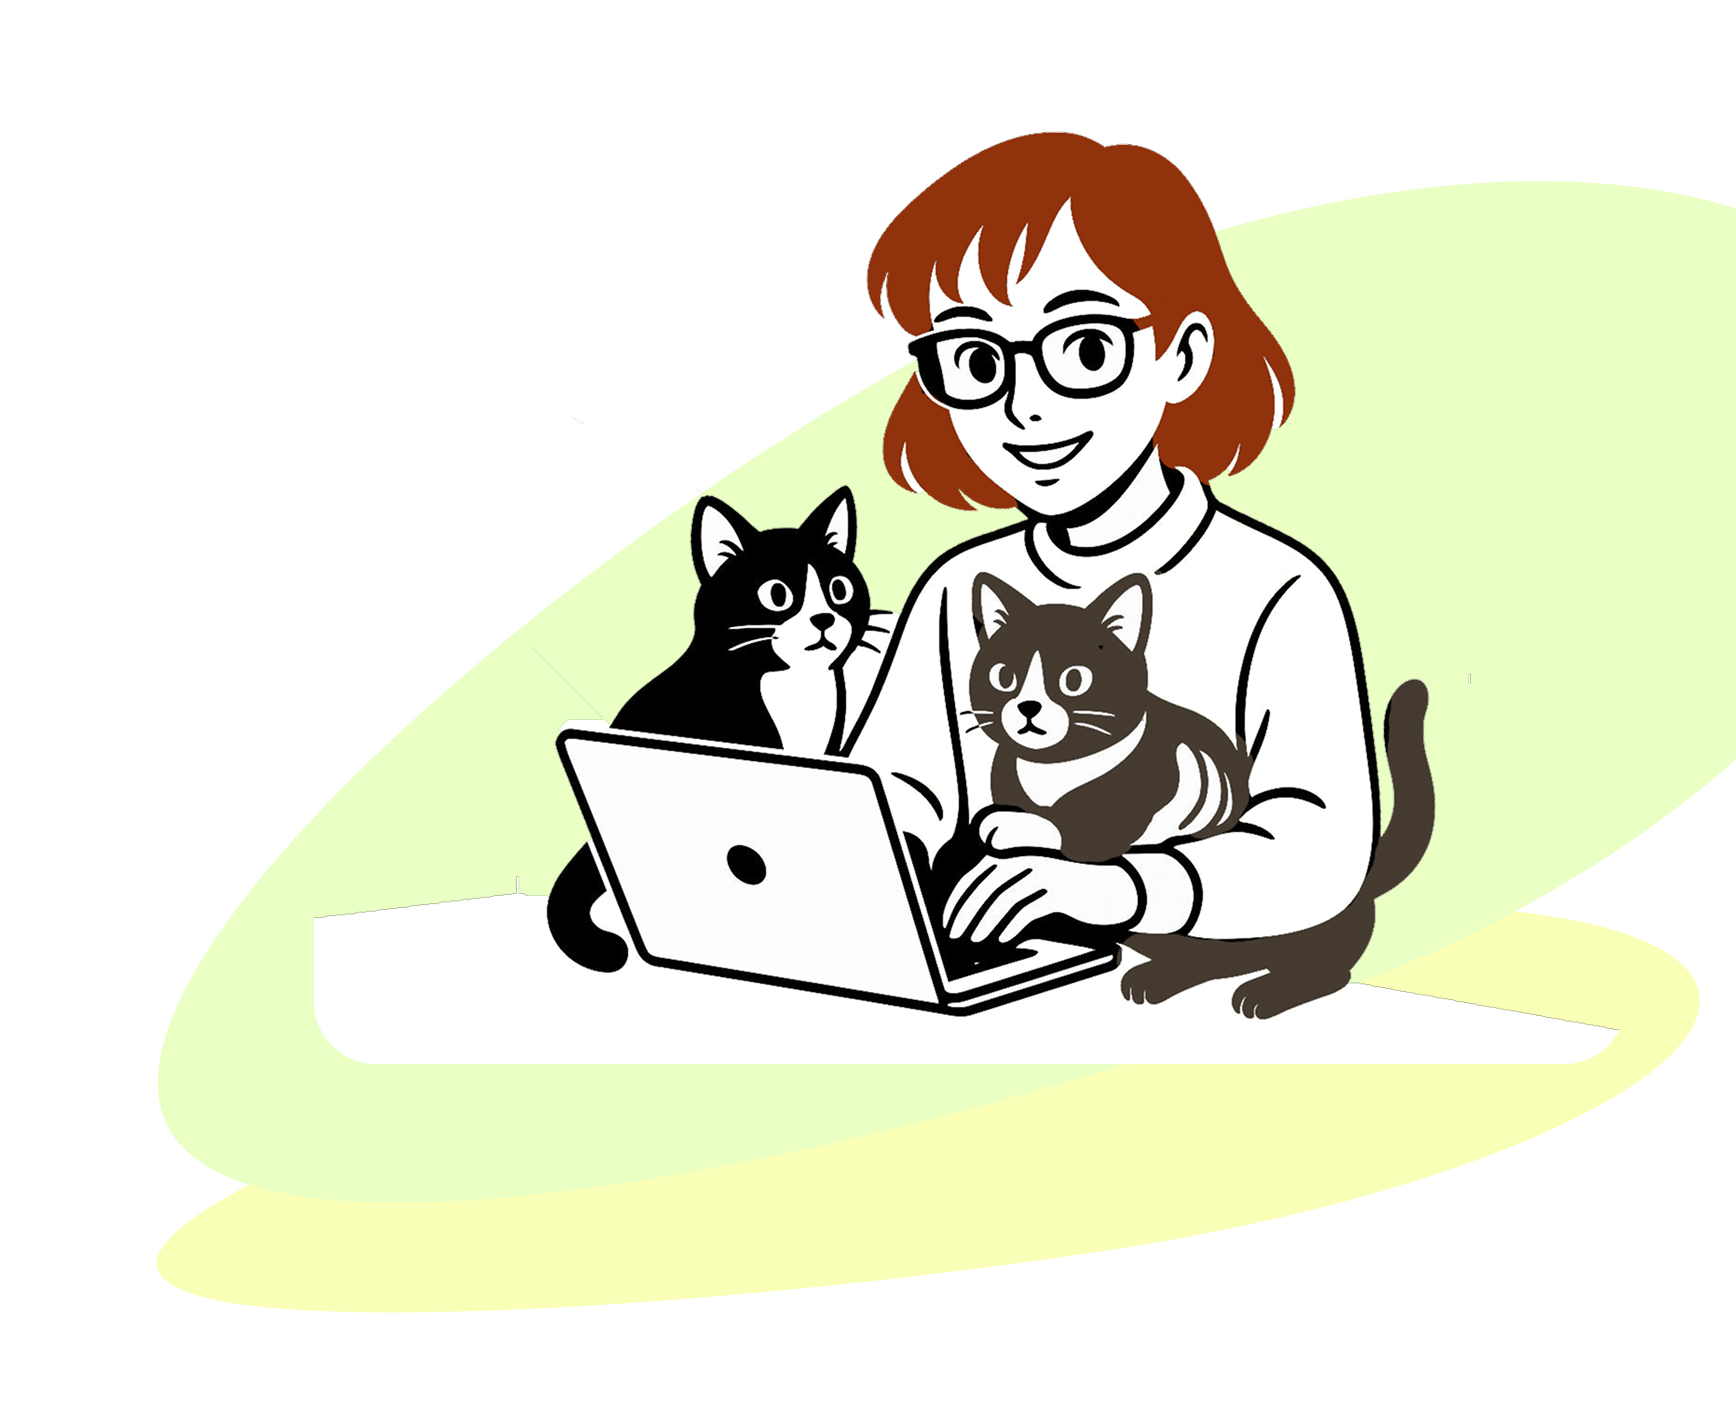
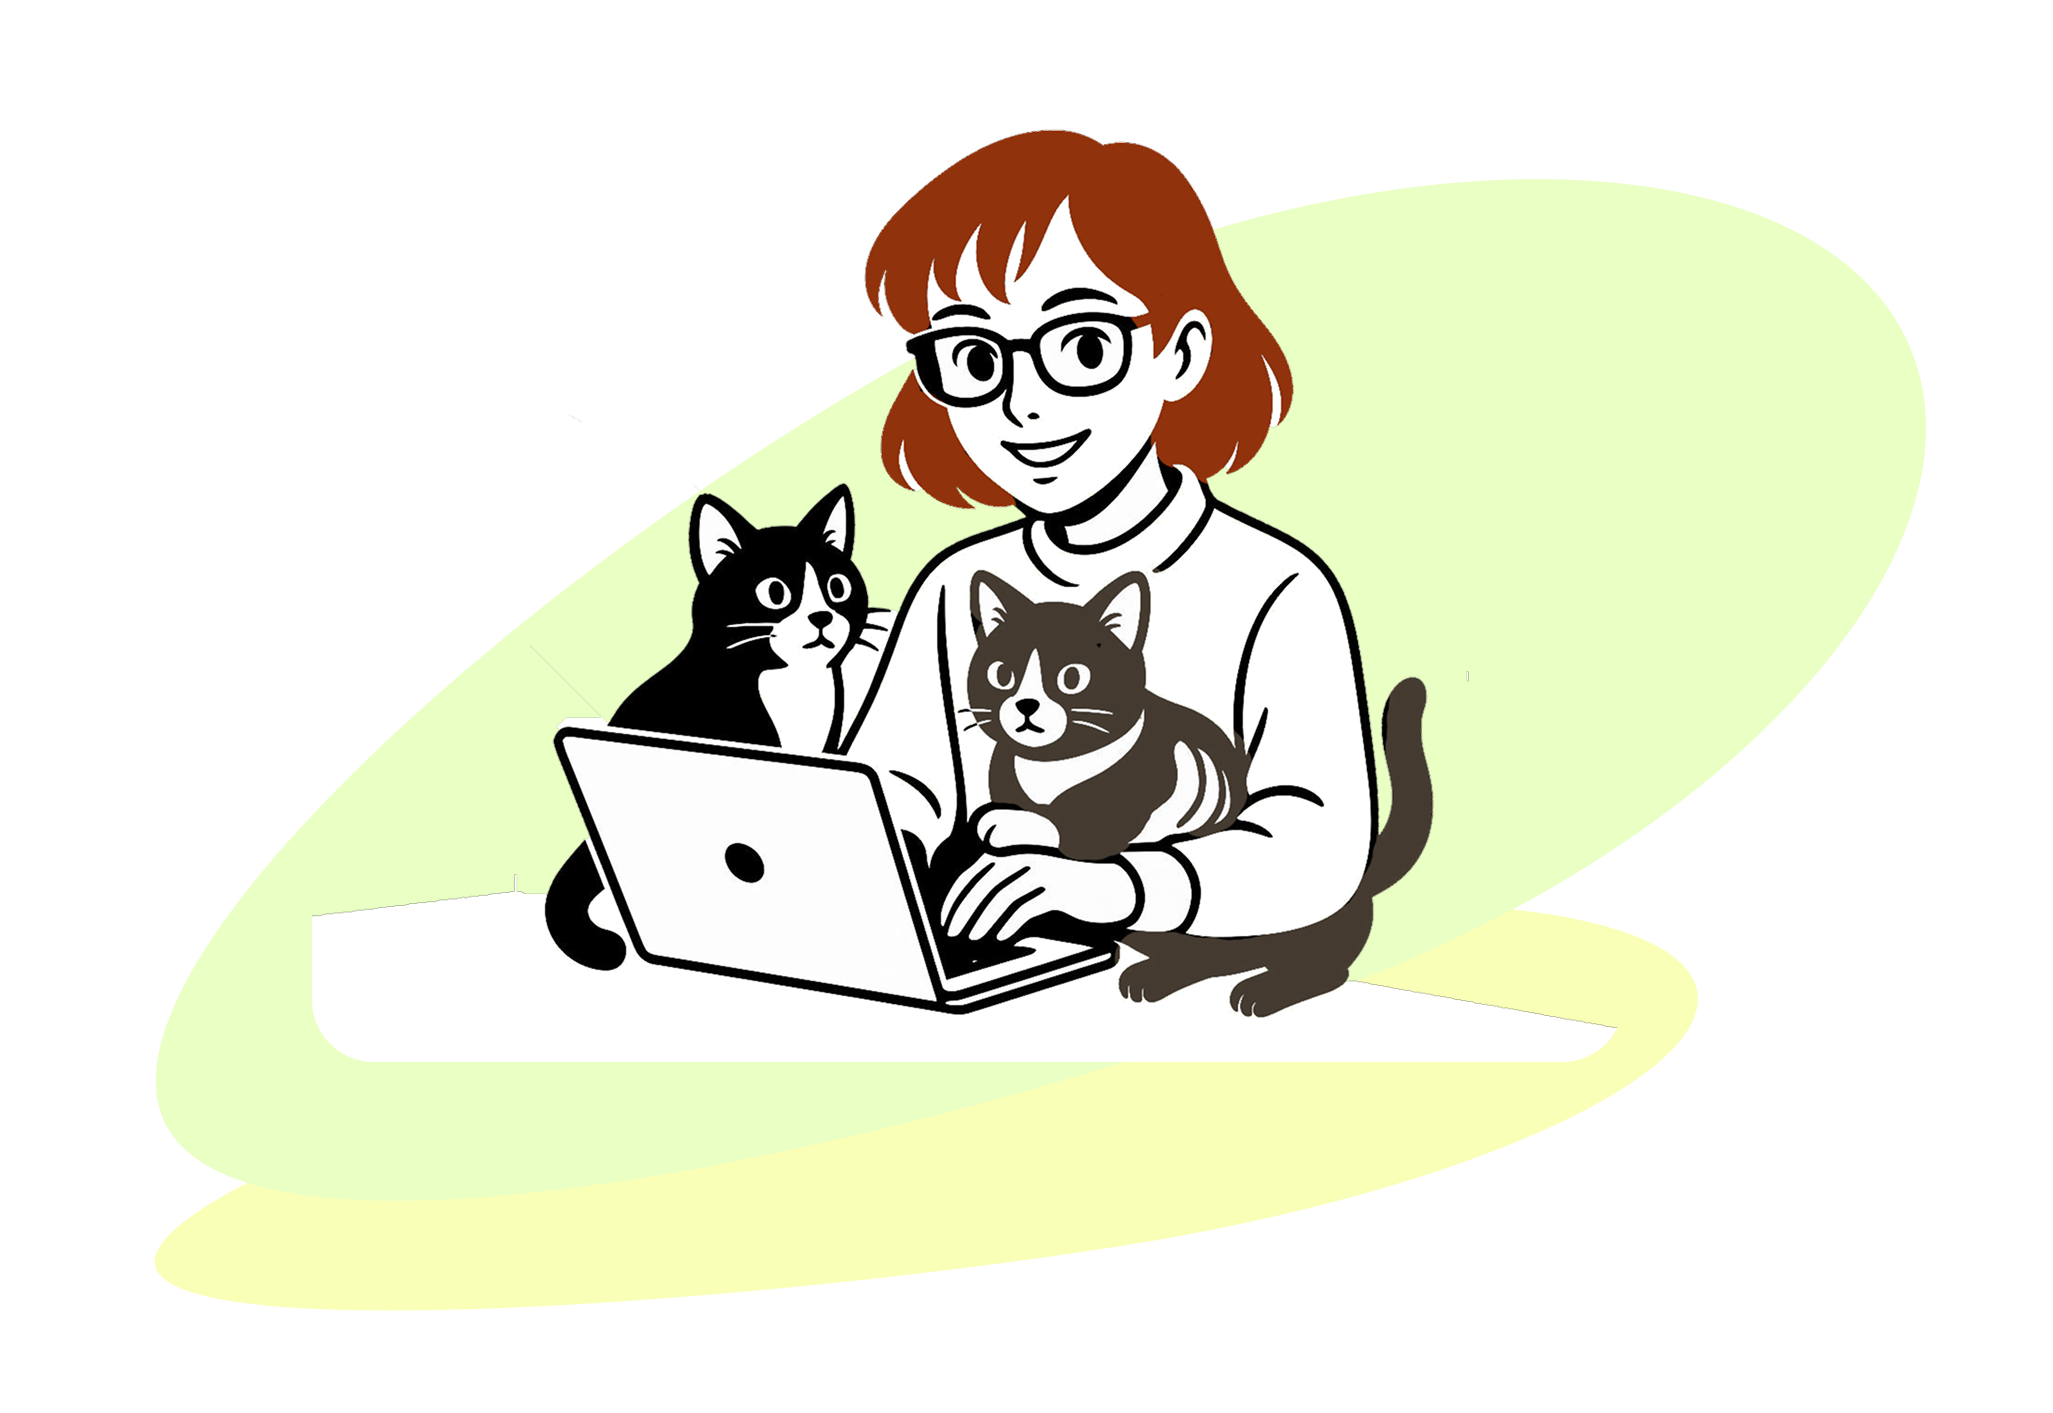
feat: add project item hard code, correct styles

diff --git a/src/pages/projects/sections/projects-gallery/ProjectsGallery.tsx b/src/pages/projects/sections/projects-gallery/ProjectsGallery.tsx
@@ -4,6 +4,13 @@ import type {FC} from 'react';
 import TitleIconGroup from "@/components/title-icon-group/TitleIconGroup";
 import logoImg from '../../../../components/title-icon-group/images/hard-skills.png'
 
+import easetechImg from './images/easetech.png'
+import easetechBgImg from './images/bg-images/easetech-ellipse.png'
+
+import WebsiteTypography from "@/components/website-typography/WebsiteTypography";
+import WebsiteButton from "@/components/website-button/WebsiteButton";
+const {Title, Paragraph} = WebsiteTypography
+
 const ProjectsGallery: FC = () => {
     return (
         <div className={'projects-gallery-wrapper'}>
@@ -13,9 +20,34 @@ const ProjectsGallery: FC = () => {
 
                 <div className={'gallery-wrapper'}>
 
+                    <div className={'upper-bg-img-wrapper'}>
+                        <img src={easetechBgImg} alt={"background illustration"}/>
+                    </div>
+
                     <div className={'project-item-wrapper'}>
 
+                        <div className={'project-content-wrapper'}>
+                          <div className={'text-box'}>
+                              <Title level={2} color={'primary'} style={{paddingBottom: 16, paddingTop: 150}}>
+                                  {'Easetech'}
+                              </Title>
+
+                              <Paragraph color={'primary'} >
+                                  {'Development of a modern platform that facilitates document and wayleave workflows between organizations and clients. The system includes user registration, quote requests, document handling, and geospatial data interactions.'}
+                              </Paragraph>
+                          </div>
+
+                            <div>
+                                <WebsiteButton btnType={'ghost'} size={'large'} text={'Read more'}/>
+                            </div>
+                        </div>
+
+                        <div className={'project-img-wrapper'}>
+                            <img src={easetechImg} alt={'screenshot of project website'}/>
+                        </div>
                     </div>
+
+                    <div className={'lower-bg-img-wrapper'}></div>
 
                 </div>
             </div>

diff --git a/src/pages/projects/sections/projects-gallery/ProjectsGallery.scss b/src/pages/projects/sections/projects-gallery/ProjectsGallery.scss
@@ -1,0 +1,71 @@
+.projects-gallery-wrapper {
+  padding: 20px 0 60px;
+
+  .gallery-wrapper {
+    position: relative;
+
+    .upper-bg-img-wrapper {
+      position: absolute;
+      overflow: visible;
+      height: 700px;
+      top: -270px;
+      right: 75px;
+      z-index: -1;
+
+      img {
+        width: 100%;
+        height: 100%;
+        object-fit: contain;
+      }
+    }
+
+    .lower-bg-img-wrapper {
+      position: absolute;
+      overflow: visible;
+      bottom: 0;
+      left: 0;
+
+      img {
+        width: 100%;
+        height: 100%;
+        object-fit: contain;
+      }
+    }
+  }
+
+  .project-item-wrapper {
+    width: 100%;
+    min-height: 400px;
+    display: flex;
+    align-items: center;
+    justify-content: center;
+
+    .project-img-wrapper {
+      width: 60%;
+      height: 500px;
+      border-radius: 230px 30px 230px 30px;
+      overflow: hidden;
+
+      img {
+        width: 100%;
+        height: 100%;
+        object-fit: cover;
+      }
+    }
+
+    .project-content-wrapper {
+      width: 40%;
+      min-height: 500px;
+      padding: 0 24px;
+      display: flex;
+      flex-direction: column;
+      justify-content: space-between;
+
+      .text-box {
+        width: 100%;
+        display: flex;
+        flex-direction: column;
+      }
+    }
+  }
+}

diff --git a/src/components/hero-section/HeroSection.tsx b/src/components/hero-section/HeroSection.tsx
@@ -49,13 +49,12 @@ const HeroSection: FC<HeroSectionProps> = ({
     const onPdfClick = ()=>{
         const link = document.createElement('a');
         link.href = '/2025_cv_ev-indrik.pdf';
-        link.download = 'cv-yevheniia.pdf'; // назва при збереженні
+        link.download = 'cv-yevheniia.pdf'; // naming on save
         link.click();
     }
 
     return (
         <div className={'hero-section-wrapper'} style={{paddingBottom: paddingBtm}}>
-
             <div className={'container'}>
 
                 {isBgImg &&

diff --git a/src/components/footer/Footer.tsx b/src/components/footer/Footer.tsx
@@ -57,7 +57,7 @@ const Footer: FC = () => {
         <div className={'footer-wrapper'}>
             <div className={'container'}>
                 <Row justify={'space-between'} align={'stretch'} wrap={false}
-                     style={{paddingTop: 32, paddingBottom: 24}}>
+                     style={{paddingTop: 50, paddingBottom: 24}}>
                     <Col span={6}>
                             <Space direction={'vertical'}>
                                 <Paragraph color={'white'} size={'lg'} weight={'w700'}>{'Menu'}</Paragraph>

diff --git a/src/components/hero-section/HeroSection.scss b/src/components/hero-section/HeroSection.scss
@@ -3,7 +3,7 @@
   min-height: calc(100vh - 150px);
   height: auto;
   z-index: 1;
-  //padding: 0 0 60px;
+  overflow: visible;
 
   .container {
     position: relative;
@@ -13,6 +13,7 @@
       bottom: -30px;
       left: 0;
       width: 105%;
+      overflow: visible;
 
       img {
       width: 100%;
@@ -33,6 +34,7 @@
   .image-container {
     position: relative;
     width: 760px;
+    overflow: visible;
 
     img {
     width: 100%;

diff --git a/src/components/website-button/WebsiteButton.scss b/src/components/website-button/WebsiteButton.scss
@@ -61,6 +61,19 @@
     }
   }
 
+  &.ghost {
+    background-color: transparent;
+    border-radius: 30px;
+    color: variables.$primary-blue;
+    border: 1px solid variables.$primary-blue;
+
+    &:hover {
+      color: #171724!important;
+      font-weight: 500;
+      border: 1px solid variables.$primary-blue!important;
+    }
+  }
+
   &.icon {
     background-color: transparent;
     padding: 0;
